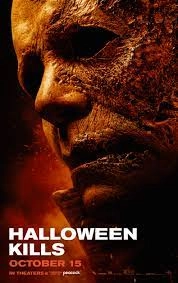
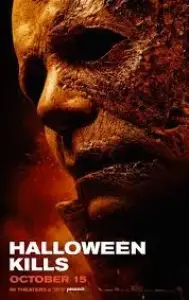
lighthouse performance fixes

diff --git a/_site/posts/1/index.html b/_site/posts/1/index.html
@@ -36,7 +36,7 @@
   <li><a class="post__url" href="/posts/2022-10-13-cannibal-holocaust-1980/"><h2 tabindex="-1" class="the__title">Cannibal Holocaust - 1980</h2></a>
   <span> class="when__posted">Posted on <span class="why__me">10-13-22</span> - by Charli</span>
   <article class="the__post"><div class="movie__info">
-<img class="movie__poster" src="/static/images/cannibalholocaust1980.jpeg" alt="Movie Poster for Cannibal Holocaust - 1980" align="left">
+<img class="movie__poster" src="/static/images/movie/cannibalholocaust1980.webp" alt="Movie Poster for Cannibal Holocaust - 1980" width="200" height="300" align="left">
 <p>Release Year: 1980</p>
 <p>Director: Ruggero Deodato</p>
 <p>CAN A MOVIE GO TOO FAR?</p>
@@ -53,7 +53,7 @@
   <li><a class="post__url" href="/posts/the-beyond-movie-review/"><h2 tabindex="-1" class="the__title">The Beyond - 1981</h2></a>
   <span> class="when__posted">Posted on <span class="why__me">10-11-22</span> - by Charli</span>
   <article class="the__post"><div class="movie__info">
-    <img class="movie__poster" src="/static/images/thebeyond1981.jpeg" alt="Movie Poster for The Beyond - 1981" align="left">
+    <img class="movie__poster" src="/static/images/movie/thebeyond1981.webp" width="204" height="300" alt="Movie Poster for The Beyond - 1981" align="left">
     <span class="film__stuff">Release Year: 1981<br>
     Director: Lucio Fulci<br>
     <p>BEYOND DEATH… BEYOND EVIL… BEYOND THE DREADED GATES OF HELL.</p>
@@ -91,7 +91,7 @@
         </section>
         <aside role="complementary" class="sidebar">
           <article class="author__bio">
-            <img class="author__photo" src="/static/images/charliold.png" alt="Photo of Charli">
+            <img class="author__photo" src="/static/images/charliold.webp" height="200" width="200" alt="Photo of Charli">
             <h2 class="author__intro">Hi There...</h2>
             <p class="author__info">I'm Charli. I'm a <span class="horror__fan">horror enthusiast</span>, <span class="bookworm">bookworm</span>, <span class="web__dev">web developer</span>, and <span class="metalhead">metalhead</span>. <a href="/about/">More...</a>
             </article>

diff --git a/_site/1/index.html b/_site/1/index.html
@@ -35,7 +35,7 @@
   <li><a class="post__url" href="/posts/2022-10-13-cannibal-holocaust-1980/"><h2 class="the__title">Cannibal Holocaust - 1980</h2></a>
   <h5 class="when__posted">Posted on <span class="why__me">10-13-22</span> - by Charli</h5>
   <article class="the__post"><div class="movie__info">
-<img class="movie__poster" src="/static/images/cannibalholocaust1980.jpeg" alt="Movie Poster for Cannibal Holocaust - 1980" align="left">
+<img class="movie__poster" src="/static/images/movie/cannibalholocaust1980.webp" alt="Movie Poster for Cannibal Holocaust - 1980" width="200" height="300" align="left">
 <p>Release Year: 1980</p>
 <p>Director: Ruggero Deodato</p>
 <p>CAN A MOVIE GO TOO FAR?</p>
@@ -52,7 +52,7 @@
   <li><a class="post__url" href="/posts/the-beyond-movie-review/"><h2 class="the__title">The Beyond - 1981</h2></a>
   <h5 class="when__posted">Posted on <span class="why__me">10-11-22</span> - by Charli</h5>
   <article class="the__post"><div class="movie__info">
-    <img class="movie__poster" src="/static/images/thebeyond1981.jpeg" alt="Movie Poster for The Beyond - 1981" align="left">
+    <img class="movie__poster" src="/static/images/movie/thebeyond1981.webp" width="204" height="300" alt="Movie Poster for The Beyond - 1981" align="left">
     <span class="film__stuff">Release Year: 1981<br>
     Director: Lucio Fulci<br>
     <p>BEYOND DEATH… BEYOND EVIL… BEYOND THE DREADED GATES OF HELL.</p>
@@ -81,7 +81,7 @@
         </section>
         <aside role="complementary" class="sidebar">
           <article class="author__bio">
-            <img class="author__photo" src="/static/images/charliold.png" alt="Photo of Charli">
+            <img class="author__photo" src="/static/images/charliold.webp" height="200" width="200" alt="Photo of Charli">
             <h2 class="author__intro">Hi There...</h2>
             <p class="author__info">I'm Charli. I'm a <span class="horror__fan">horror enthusiast</span>, <span class="bookworm">bookworm</span>, <span class="web__dev">web developer</span>, and <span class="metalhead">metalhead</span>. <a href="/about/">More...</a>
             </article>

diff --git a/_site/posts/index.html b/_site/posts/index.html
@@ -36,7 +36,7 @@
   <li><a class="post__url" href="/posts/2022-10-22-halloween-kills-2021/"><h2 tabindex="-1" class="the__title">Halloween Kills - 2021</h2></a>
   <span> class="when__posted">Posted on <span class="why__me">10-22-22</span> - by Charli</span>
   <article class="the__post"><div class="movie__info">
-<img class="movie__poster" src="/static/images/halloweenkills2021.jpeg" alt="Movie Poster for Halloween Kills - 2021" align="left">
+<img class="movie__poster" src="/static/images/movie/halloweenkills2021.webp" alt="Movie Poster for Halloween Kills - 2021" width="189" height="300" align="left">
 <p>Release Year: 2021<br></p>
 <p>Director: David Gordon Green<br></p>
 <p></p>
@@ -68,7 +68,7 @@
   <li><a class="post__url" href="/posts/2022-10-14-pieces-1982/"><h2 tabindex="-1" class="the__title">Pieces - 1982</h2></a>
   <span> class="when__posted">Posted on <span class="why__me">10-14-22</span> - by Charli</span>
   <article class="the__post"><div class="movie__info">
-<img class="movie__poster" src="/static/images/pieces1982.jpeg" alt="Movie Poster for Pieces - 1982" align="left">
+<img class="movie__poster" src="/static/images/movie/pieces1982.webp" width="200" height="300" alt="Movie Poster for Pieces - 1982" align="left">
 <p>Release Year: 1982<br></p>
 <p>Director: Juan Piquer Simón<br></p>
 <p>IT’S EXACTLY WHAT YOU THINK IT IS!</p>
@@ -99,7 +99,7 @@
         </section>
         <aside role="complementary" class="sidebar">
           <article class="author__bio">
-            <img class="author__photo" src="/static/images/charliold.png" alt="Photo of Charli">
+            <img class="author__photo" src="/static/images/charliold.webp" height="200" width="200" alt="Photo of Charli">
             <h2 class="author__intro">Hi There...</h2>
             <p class="author__info">I'm Charli. I'm a <span class="horror__fan">horror enthusiast</span>, <span class="bookworm">bookworm</span>, <span class="web__dev">web developer</span>, and <span class="metalhead">metalhead</span>. <a href="/about/">More...</a>
             </article>

diff --git a/_site/index.html b/_site/index.html
@@ -35,7 +35,7 @@
   <li><a class="post__url" href="/posts/2022-10-22-halloween-kills-2021/"><h2 class="the__title">Halloween Kills - 2021</h2></a>
   <h5 class="when__posted">Posted on <span class="why__me">10-22-22</span> - by Charli</h5>
   <article class="the__post"><div class="movie__info">
-<img class="movie__poster" src="/static/images/halloweenkills2021.jpeg" alt="Movie Poster for Halloween Kills - 2021" align="left">
+<img class="movie__poster" src="/static/images/movie/halloweenkills2021.webp" alt="Movie Poster for Halloween Kills - 2021" width="189" height="300" align="left">
 <p>Release Year: 2021<br></p>
 <p>Director: David Gordon Green<br></p>
 <p></p>
@@ -67,7 +67,7 @@
   <li><a class="post__url" href="/posts/2022-10-14-pieces-1982/"><h2 class="the__title">Pieces - 1982</h2></a>
   <h5 class="when__posted">Posted on <span class="why__me">10-14-22</span> - by Charli</h5>
   <article class="the__post"><div class="movie__info">
-<img class="movie__poster" src="/static/images/pieces1982.jpeg" alt="Movie Poster for Pieces - 1982" align="left">
+<img class="movie__poster" src="/static/images/movie/pieces1982.webp" width="200" height="300" alt="Movie Poster for Pieces - 1982" align="left">
 <p>Release Year: 1982<br></p>
 <p>Director: Juan Piquer Simón<br></p>
 <p>IT’S EXACTLY WHAT YOU THINK IT IS!</p>
@@ -89,7 +89,7 @@
         </section>
         <aside role="complementary" class="sidebar">
           <article class="author__bio">
-            <img class="author__photo" src="/static/images/charliold.png" alt="Photo of Charli">
+            <img class="author__photo" src="/static/images/charliold.webp" height="200" width="200" alt="Photo of Charli">
             <h2 class="author__intro">Hi There...</h2>
             <p class="author__info">I'm Charli. I'm a <span class="horror__fan">horror enthusiast</span>, <span class="bookworm">bookworm</span>, <span class="web__dev">web developer</span>, and <span class="metalhead">metalhead</span>. <a href="/about/">More...</a>
             </article>

diff --git a/_site/books/index.html b/_site/books/index.html
@@ -36,7 +36,7 @@
   <li><a class="post__url" href="/books/2022-10-23-chasing-the-boogeyman-by-richard-chizmar/"><h2 tabindex="-1" class="the__title">Chasing the Boogeyman by Richard Chizmar</h2></a>
   <span class="when__posted">Posted on <span class="why__me">05-12-21</span> - by Charli</span>
   <article class="the__post"><div class="movie__info">
-<img class="movie__poster" src="/static/images/book/chasingtheboogeyman.jpeg" alt="Book Cover for Chasing the Boogeyman by Richard Chizmar" align="left">
+<img class="movie__poster" src="/static/images/book/chasingtheboogeyman.webp" alt="Book Cover for Chasing the Boogeyman by Richard Chizmar" width="199" height="300" align="left">
 <p>Release Year: 2021<br></p>
 <p>Director: David Gordon Green<br></p>
 <p>The New York Times bestselling coauthor of Gwendy’s Button Box brings his signature “thrilling, page-turning” (Michael Koryta, author of How It Happened) prose to this story of small-town evil that combines the storytelling of Stephen King with the true-crime suspense of Michelle McNamara.</p>
@@ -73,7 +73,7 @@
         </section>
         <aside role="complementary" class="sidebar">
           <article class="author__bio">
-            <img class="author__photo" src="/static/images/charliold.png" alt="Photo of Charli">
+            <img class="author__photo" src="/static/images/charliold.webp" height="200" width="200" alt="Photo of Charli">
             <h2 class="author__intro">Hi There...</h2>
             <p class="author__info">I'm Charli. I'm a <span class="horror__fan">horror enthusiast</span>, <span class="bookworm">bookworm</span>, <span class="web__dev">web developer</span>, and <span class="metalhead">metalhead</span>. <a href="/about/">More...</a>
             </article>

diff --git a/_site/books/2022-10-23-chasing-the-boogeyman-by-richard-chizmar/index.html b/_site/books/2022-10-23-chasing-the-boogeyman-by-richard-chizmar/index.html
@@ -34,7 +34,7 @@
 <h3 class="post-date">05-12-21</h3>
 <article class="post">
 <p><div class="movie__info">
-<img class="movie__poster" src="/static/images/book/chasingtheboogeyman.jpeg" alt="Book Cover for Chasing the Boogeyman by Richard Chizmar" align="left">
+<img class="movie__poster" src="/static/images/book/chasingtheboogeyman.webp" alt="Book Cover for Chasing the Boogeyman by Richard Chizmar" width="199" height="300" align="left">
 <p>Release Year: 2021<br></p>
 <p>Director: David Gordon Green<br></p>
 <p>The New York Times bestselling coauthor of Gwendy’s Button Box brings his signature “thrilling, page-turning” (Michael Koryta, author of How It Happened) prose to this story of small-town evil that combines the storytelling of Stephen King with the true-crime suspense of Michelle McNamara.</p>
@@ -57,7 +57,7 @@
         </section>
         <aside role="complementary" class="sidebar">
           <article class="author__bio">
-            <img class="author__photo" src="/static/images/charliold.png" alt="Photo of Charli">
+            <img class="author__photo" src="/static/images/charliold.webp" height="200" width="200" alt="Photo of Charli">
             <h2 class="author__intro">Hi There...</h2>
             <p class="author__info">I'm Charli. I'm a <span class="horror__fan">horror enthusiast</span>, <span class="bookworm">bookworm</span>, <span class="web__dev">web developer</span>, and <span class="metalhead">metalhead</span>. <a href="/about/">More...</a>
             </article>

diff --git a/_site/television/index.html b/_site/television/index.html
@@ -36,7 +36,7 @@
   <li><a class="post__url" href="/television/2022-10-23-american-horror-story-s1/"><h2 tabindex="-1" class="the__title">American Horror Story Season 1</h2></a>
   <span class="when__posted">Posted on <span class="why__me">10-23-22</span> - by Charli</span>
   <article class="the__post"><div class="movie__info">
-<img class="movie__poster" src="/static/images/television/ahsseason1.jpeg" alt="Movie Poster for American Horror Story Season 1" align="left">
+<img class="movie__poster" src="/static/images/television/ahsseason1.webp" width="225" height="300" alt="Movie Poster for American Horror Story Season 1" align="left">
 <p>Release Year: 2011<br></p>
 <p>Director: Various<br></p>
 <p></p>
@@ -62,7 +62,7 @@
         </section>
         <aside role="complementary" class="sidebar">
           <article class="author__bio">
-            <img class="author__photo" src="/static/images/charliold.png" alt="Photo of Charli">
+            <img class="author__photo" src="/static/images/charliold.webp" height="200" width="200" alt="Photo of Charli">
             <h2 class="author__intro">Hi There...</h2>
             <p class="author__info">I'm Charli. I'm a <span class="horror__fan">horror enthusiast</span>, <span class="bookworm">bookworm</span>, <span class="web__dev">web developer</span>, and <span class="metalhead">metalhead</span>. <a href="/about/">More...</a>
             </article>

diff --git a/_site/movies/index.html b/_site/movies/index.html
@@ -36,7 +36,7 @@
   <li><a class="post__url" href="/movies/2022-10-22-halloween-kills-2021/"><h2 tabindex="-1">class="the__title">Halloween Kills - 2021</h2></a>
   <span class="when__posted">Posted on <span class="why__me">10-22-22</span> - by Charli</span>
   <article class="the__post"><div class="movie__info">
-<img class="movie__poster" src="/static/images/halloweenkills2021.jpeg" alt="Movie Poster for Halloween Kills - 2021" align="left">
+<img class="movie__poster" src="/static/images/movie/halloweenkills2021.webp" alt="Movie Poster for Halloween Kills - 2021" height="300" width="189" align="left">
 <p>Release Year: 2021<br></p>
 <p>Director: David Gordon Green<br></p>
 <p></p>
@@ -70,7 +70,7 @@
         </section>
         <aside role="complementary" class="sidebar">
           <article class="author__bio">
-            <img class="author__photo" src="/static/images/charliold.png" alt="Photo of Charli">
+            <img class="author__photo" src="/static/images/charliold.webp" height="200" width="200" alt="Photo of Charli">
             <h2 class="author__intro">Hi There...</h2>
             <p class="author__info">I'm Charli. I'm a <span class="horror__fan">horror enthusiast</span>, <span class="bookworm">bookworm</span>, <span class="web__dev">web developer</span>, and <span class="metalhead">metalhead</span>. <a href="/about/">More...</a>
             </article>

diff --git a/_site/posts/the-beyond-movie-review/index.html b/_site/posts/the-beyond-movie-review/index.html
@@ -34,7 +34,7 @@
 <h3 class="post-date">10-11-22</h3>
 <article class="post">
 <p><div class="movie__info">
-    <img class="movie__poster" src="/static/images/thebeyond1981.jpeg" alt="Movie Poster for The Beyond - 1981" align="left">
+    <img class="movie__poster" src="/static/images/movie/thebeyond1981.webp" width="204" height="300" alt="Movie Poster for The Beyond - 1981" align="left">
     <span class="film__stuff">Release Year: 1981<br>
     Director: Lucio Fulci<br>
     <p>BEYOND DEATH… BEYOND EVIL… BEYOND THE DREADED GATES OF HELL.</p>
@@ -52,7 +52,7 @@
         </section>
         <aside role="complementary" class="sidebar">
           <article class="author__bio">
-            <img class="author__photo" src="/static/images/charliold.png" alt="Photo of Charli">
+            <img class="author__photo" src="/static/images/charliold.webp" height="200" width="200" alt="Photo of Charli">
             <h2 class="author__intro">Hi There...</h2>
             <p class="author__info">I'm Charli. I'm a <span class="horror__fan">horror enthusiast</span>, <span class="bookworm">bookworm</span>, <span class="web__dev">web developer</span>, and <span class="metalhead">metalhead</span>. <a href="/about/">More...</a>
             </article>

diff --git a/_site/posts/2022-10-13-cannibal-holocaust-1980/index.html b/_site/posts/2022-10-13-cannibal-holocaust-1980/index.html
@@ -34,7 +34,7 @@
 <h3 class="post-date">10-13-22</h3>
 <article class="post">
 <p><div class="movie__info">
-<img class="movie__poster" src="/static/images/cannibalholocaust1980.jpeg" alt="Movie Poster for Cannibal Holocaust - 1980" align="left">
+<img class="movie__poster" src="/static/images/movie/cannibalholocaust1980.webp" alt="Movie Poster for Cannibal Holocaust - 1980" width="200" height="300" align="left">
 <p>Release Year: 1980</p>
 <p>Director: Ruggero Deodato</p>
 <p>CAN A MOVIE GO TOO FAR?</p>
@@ -53,7 +53,7 @@
         </section>
         <aside role="complementary" class="sidebar">
           <article class="author__bio">
-            <img class="author__photo" src="/static/images/charliold.png" alt="Photo of Charli">
+            <img class="author__photo" src="/static/images/charliold.webp" height="200" width="200" alt="Photo of Charli">
             <h2 class="author__intro">Hi There...</h2>
             <p class="author__info">I'm Charli. I'm a <span class="horror__fan">horror enthusiast</span>, <span class="bookworm">bookworm</span>, <span class="web__dev">web developer</span>, and <span class="metalhead">metalhead</span>. <a href="/about/">More...</a>
             </article>

diff --git a/_site/posts/2022-10-14-pieces-1982/index.html b/_site/posts/2022-10-14-pieces-1982/index.html
@@ -34,7 +34,7 @@
 <h3 class="post-date">10-14-22</h3>
 <article class="post">
 <p><div class="movie__info">
-<img class="movie__poster" src="/static/images/pieces1982.jpeg" alt="Movie Poster for Pieces - 1982" align="left">
+<img class="movie__poster" src="/static/images/movie/pieces1982.webp" width="200" height="300" alt="Movie Poster for Pieces - 1982" align="left">
 <p>Release Year: 1982<br></p>
 <p>Director: Juan Piquer Simón<br></p>
 <p>IT’S EXACTLY WHAT YOU THINK IT IS!</p>
@@ -52,7 +52,7 @@
         </section>
         <aside role="complementary" class="sidebar">
           <article class="author__bio">
-            <img class="author__photo" src="/static/images/charliold.png" alt="Photo of Charli">
+            <img class="author__photo" src="/static/images/charliold.webp" height="200" width="200" alt="Photo of Charli">
             <h2 class="author__intro">Hi There...</h2>
             <p class="author__info">I'm Charli. I'm a <span class="horror__fan">horror enthusiast</span>, <span class="bookworm">bookworm</span>, <span class="web__dev">web developer</span>, and <span class="metalhead">metalhead</span>. <a href="/about/">More...</a>
             </article>

diff --git a/_site/television/2022-10-23-american-horror-story-s1/index.html b/_site/television/2022-10-23-american-horror-story-s1/index.html
@@ -34,7 +34,7 @@
 <h3 class="post-date">10-23-22</h3>
 <article class="post">
 <p><div class="movie__info">
-<img class="movie__poster" src="/static/images/television/ahsseason1.jpeg" alt="Movie Poster for American Horror Story Season 1" align="left">
+<img class="movie__poster" src="/static/images/television/ahsseason1.webp" width="225" height="300" alt="Movie Poster for American Horror Story Season 1" align="left">
 <p>Release Year: 2011<br></p>
 <p>Director: Various<br></p>
 <p></p>
@@ -47,7 +47,7 @@
         </section>
         <aside role="complementary" class="sidebar">
           <article class="author__bio">
-            <img class="author__photo" src="/static/images/charliold.png" alt="Photo of Charli">
+            <img class="author__photo" src="/static/images/charliold.webp" height="200" width="200" alt="Photo of Charli">
             <h2 class="author__intro">Hi There...</h2>
             <p class="author__info">I'm Charli. I'm a <span class="horror__fan">horror enthusiast</span>, <span class="bookworm">bookworm</span>, <span class="web__dev">web developer</span>, and <span class="metalhead">metalhead</span>. <a href="/about/">More...</a>
             </article>
